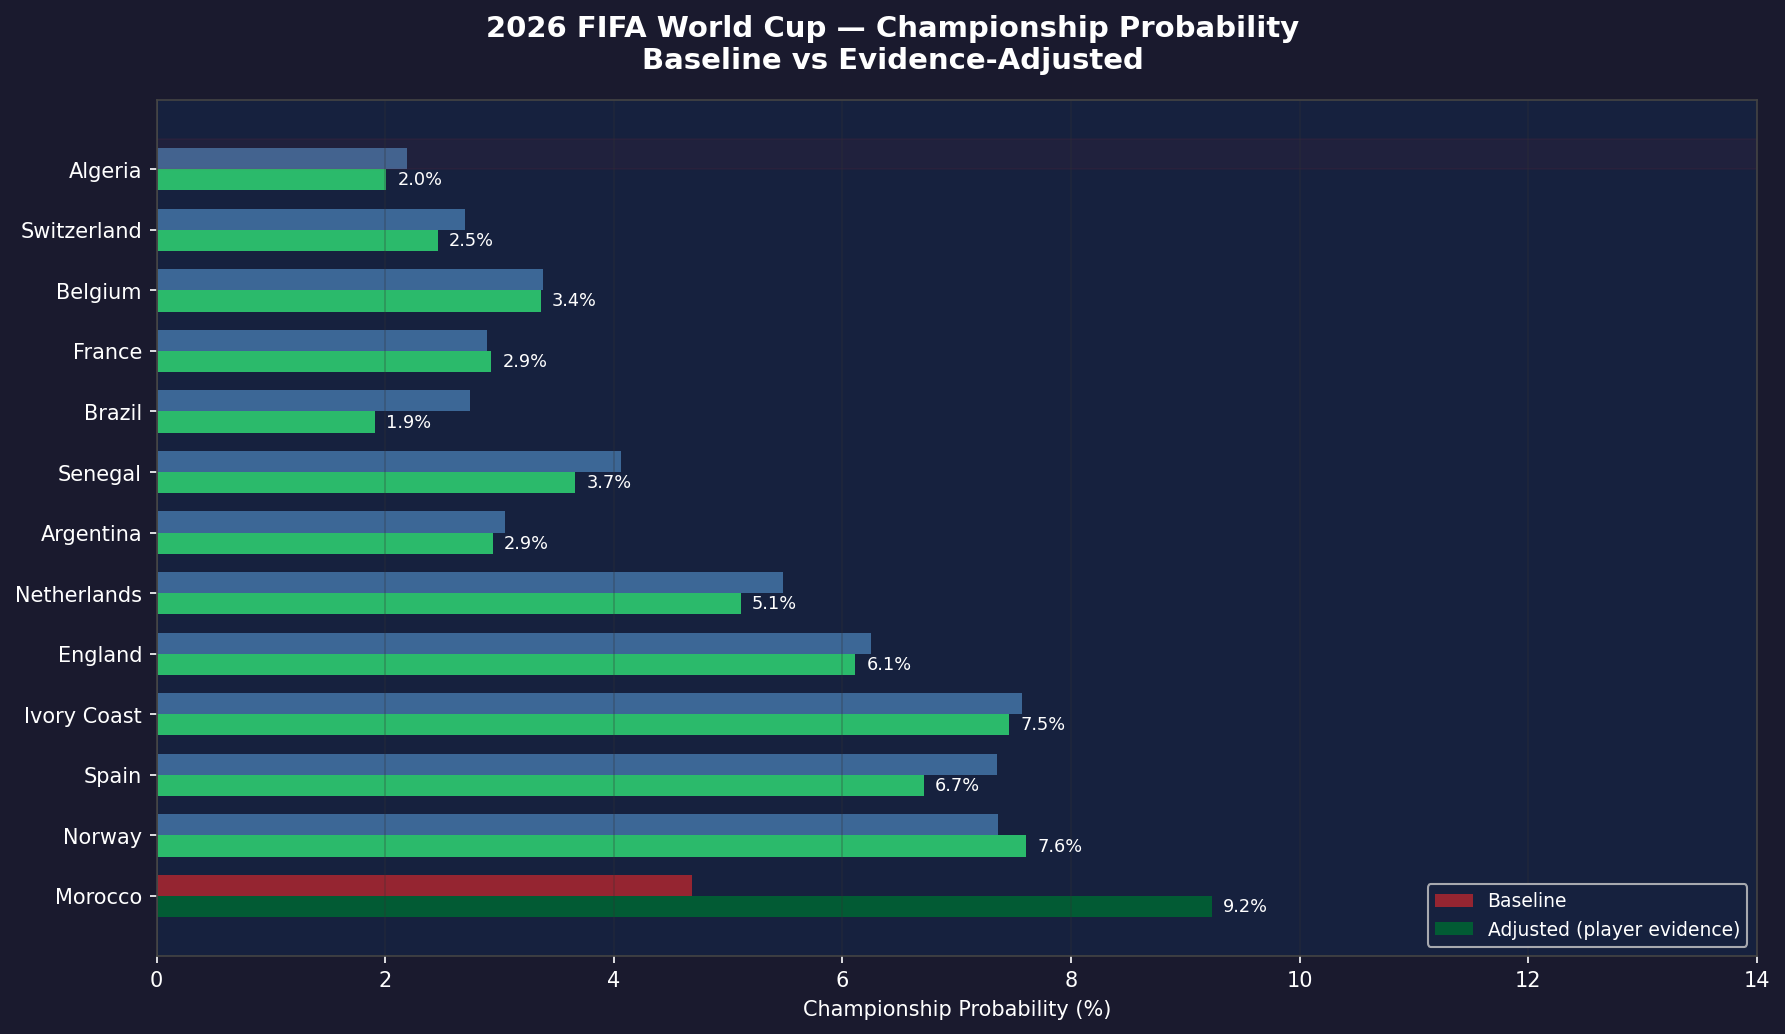
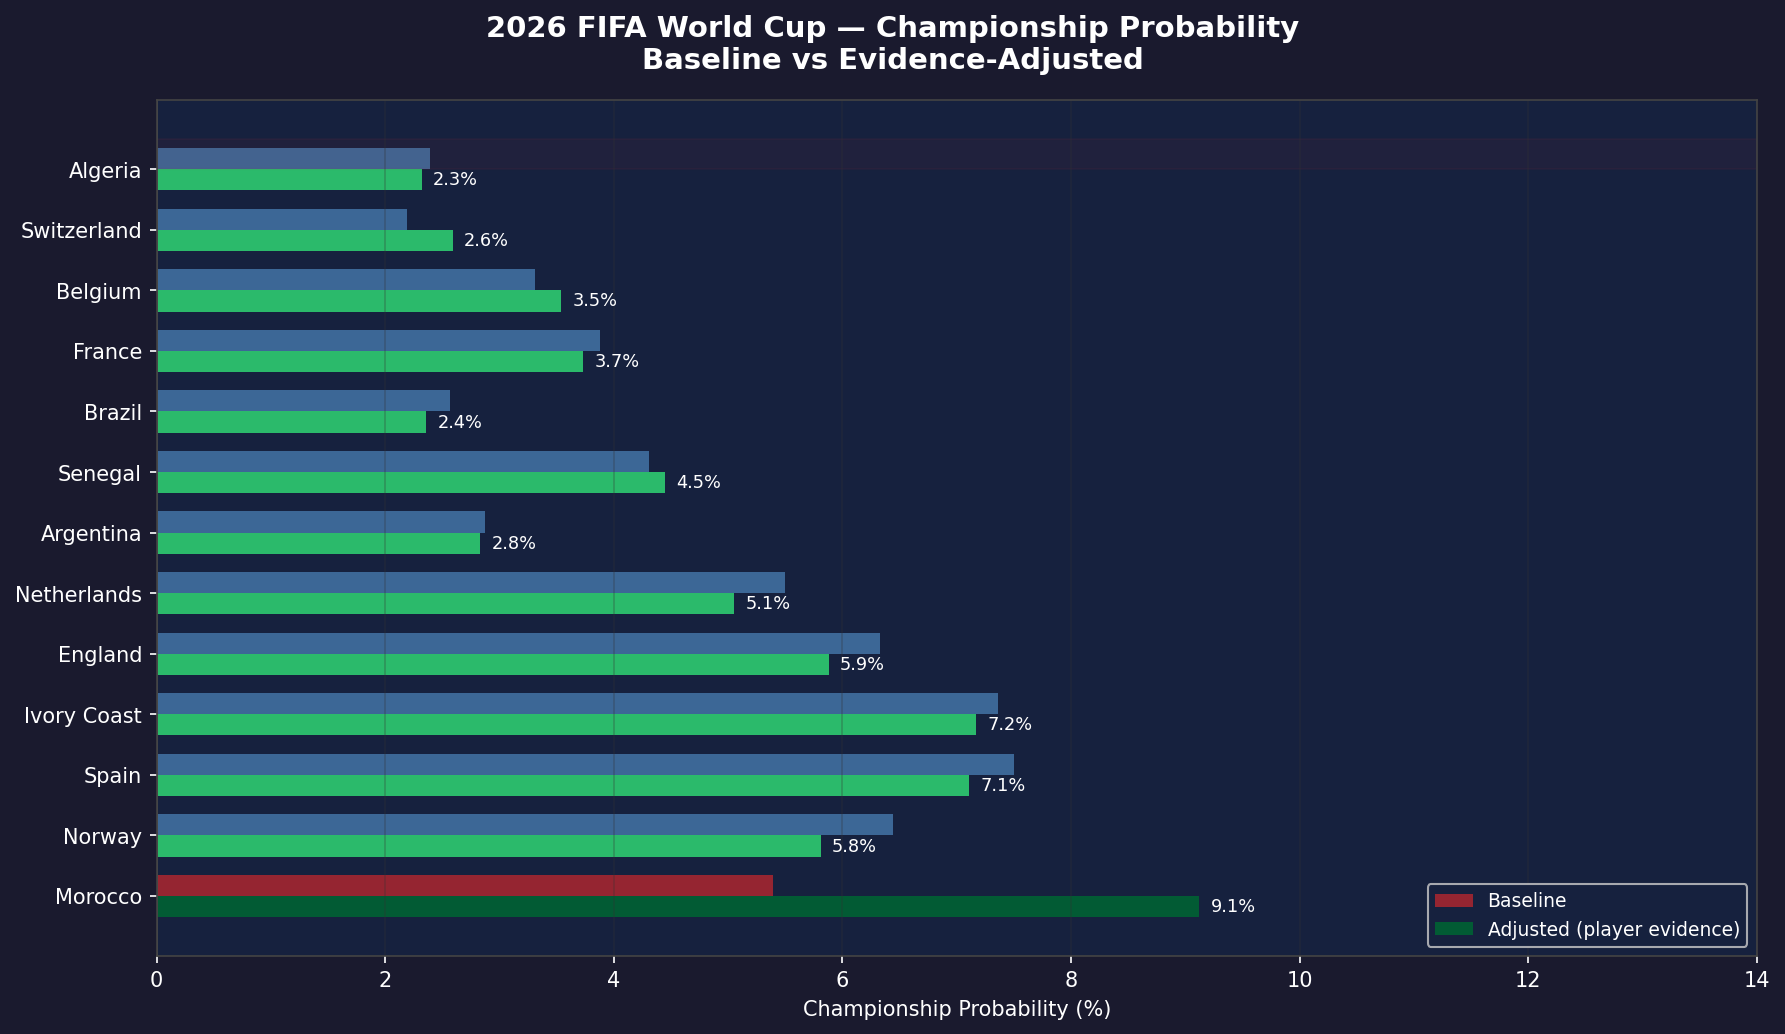
fixed the Norway inflation

diff --git a/src/poisson.py b/src/poisson.py
@@ -1,44 +1,68 @@
 """Poisson model for match outcomes."""
 from __future__ import annotations
 import math
-from typing import Iterable, Dict, Tuple
+from typing import Dict, Iterable, List, Optional, Tuple
 
 
 def poisson_pmf(k: int, lam: float) -> float:
     return (lam ** k) * math.exp(-lam) / math.factorial(k)
 
 
-def compute_team_strengths(matches: Iterable[dict]) -> Tuple[Dict[int, dict], float, float]:
-    home_goals_for, home_goals_against, home_games = {}, {}, {}
-    away_goals_for, away_goals_against, away_games = {}, {}, {}
-    total_home_goals = total_away_goals = total_matches = 0
-    for m in matches:
+def compute_team_strengths(
+    matches: Iterable[dict],
+    weights: Optional[List[Tuple[float, float]]] = None,
+) -> Tuple[Dict[int, dict], float, float]:
+    """Compute attack/defense indices for each team.
+
+    weights: per-match list of (w_home, w_away).  w_home down-weights the home
+    team's stats when the away opponent is weak; w_away does the same for the
+    away team.  When None every match is weighted 1.0.  Weighted league averages
+    are used so attack/defense indices stay correctly normalised.
+    """
+    home_goals_for: Dict[int, float] = {}
+    home_goals_against: Dict[int, float] = {}
+    home_games: Dict[int, float] = {}
+    away_goals_for: Dict[int, float] = {}
+    away_goals_against: Dict[int, float] = {}
+    away_games: Dict[int, float] = {}
+    total_home_goals = total_home_weight = 0.0
+    total_away_goals = total_away_weight = 0.0
+
+    for i, m in enumerate(matches):
         if m["home_score"] is None or m["away_score"] is None:
             continue
+        w_h, w_a = weights[i] if weights is not None else (1.0, 1.0)
         h, a = int(m["home_team_id"]), int(m["away_team_id"])
         hs, as_ = int(m["home_score"]), int(m["away_score"])
-        home_goals_for[h] = home_goals_for.get(h, 0) + hs
-        home_goals_against[h] = home_goals_against.get(h, 0) + as_
-        home_games[h] = home_games.get(h, 0) + 1
-        away_goals_for[a] = away_goals_for.get(a, 0) + as_
-        away_goals_against[a] = away_goals_against.get(a, 0) + hs
-        away_games[a] = away_games.get(a, 0) + 1
-        total_home_goals += hs
-        total_away_goals += as_
-        total_matches += 1
-    if total_matches == 0:
+
+        home_goals_for[h]     = home_goals_for.get(h, 0.0)     + hs  * w_h
+        home_goals_against[h] = home_goals_against.get(h, 0.0) + as_ * w_h
+        home_games[h]         = home_games.get(h, 0.0)         + w_h
+
+        away_goals_for[a]     = away_goals_for.get(a, 0.0)     + as_ * w_a
+        away_goals_against[a] = away_goals_against.get(a, 0.0) + hs  * w_a
+        away_games[a]         = away_games.get(a, 0.0)         + w_a
+
+        total_home_goals  += hs  * w_h
+        total_home_weight += w_h
+        total_away_goals  += as_ * w_a
+        total_away_weight += w_a
+
+    if total_home_weight == 0 or total_away_weight == 0:
         raise ValueError("No completed matches found.")
-    league_home_avg = total_home_goals / total_matches
-    league_away_avg = total_away_goals / total_matches
+
+    league_home_avg = total_home_goals / total_home_weight
+    league_away_avg = total_away_goals / total_away_weight
+
     all_team_ids = set(home_games) | set(away_games)
     strengths = {}
     for tid in all_team_ids:
-        hg, ag = home_games.get(tid, 0), away_games.get(tid, 0)
+        hg, ag = home_games.get(tid, 0.0), away_games.get(tid, 0.0)
         strengths[tid] = {
-            "home_attack": (home_goals_for.get(tid, 0) / hg) / league_home_avg if hg > 0 else 1.0,
-            "home_defense": (home_goals_against.get(tid, 0) / hg) / league_away_avg if hg > 0 else 1.0,
-            "away_attack": (away_goals_for.get(tid, 0) / ag) / league_away_avg if ag > 0 else 1.0,
-            "away_defense": (away_goals_against.get(tid, 0) / ag) / league_home_avg if ag > 0 else 1.0,
+            "home_attack":   (home_goals_for.get(tid, 0.0)     / hg) / league_home_avg if hg > 0 else 1.0,
+            "home_defense":  (home_goals_against.get(tid, 0.0) / hg) / league_away_avg if hg > 0 else 1.0,
+            "away_attack":   (away_goals_for.get(tid, 0.0)     / ag) / league_away_avg if ag > 0 else 1.0,
+            "away_defense":  (away_goals_against.get(tid, 0.0) / ag) / league_home_avg if ag > 0 else 1.0,
         }
     return strengths, league_home_avg, league_away_avg
 

diff --git a/src/wc_simulator.py b/src/wc_simulator.py
@@ -10,7 +10,7 @@ Usage:
 from __future__ import annotations
 
 import re
-from collections import defaultdict
+from collections import Counter, defaultdict
 from typing import Dict, List, Optional, Tuple
 
 import numpy as np
@@ -65,6 +65,11 @@ QF_SLOTS  = [(0,1),(4,5),(2,3),(6,7)]
 # SF pairs by QF index
 SF_SLOTS  = [(0,1),(2,3)]
 
+
+# Minimum international matches required for full Poisson credibility.
+# Teams below this threshold have their attack/defense indices blended toward
+# the league mean (1.0) proportionally: credibility = min(n, threshold) / threshold.
+POISSON_CREDIBILITY_THRESHOLD = 12
 
 # International competition IDs — used to filter Poisson training data
 INTERNATIONAL_COMP_IDS = {
@@ -158,6 +163,24 @@ def _load_international_matches(alias_map: Dict[int, int]) -> List[dict]:
         "away_team_id": alias_map.get(r[1], r[1]),
         "home_score": r[2], "away_score": r[3],
     } for r in rows]
+
+
+# Weight parameters for opponent-strength weighting of Poisson data.
+# Linear around 1500; floor prevents minnow matches from counting as zero.
+_ELO_WEIGHT_CENTER = 1500.0
+_ELO_WEIGHT_SCALE  = 400.0
+_ELO_WEIGHT_MIN    = 0.2
+_ELO_WEIGHT_MAX    = 2.0
+
+
+def _opponent_weight(elo: float) -> float:
+    """Return a Poisson match weight based on opponent Elo.
+
+    1500-Elo opponent → 1.0.  Each 400 points above/below shifts by ±1.0,
+    clamped to [0.2, 2.0] so even weak-opposition results count a little.
+    """
+    w = (elo - _ELO_WEIGHT_CENTER) / _ELO_WEIGHT_SCALE + 1.0
+    return max(_ELO_WEIGHT_MIN, min(_ELO_WEIGHT_MAX, w))
 
 
 def _neutral_lambdas(a_id: Optional[int], b_id: Optional[int],
@@ -341,10 +364,45 @@ def run_wc_simulations(
     print("Computing Elo ratings (all matches)...")
     elo = fit_ratings(all_matches)
 
-    print("Computing Poisson strengths (international matches only)...")
-    strengths, home_avg, away_avg = compute_team_strengths(intl_matches)
+    print("Computing Poisson strengths (international matches, opponent-weighted)...")
+    poisson_weights = [
+        (
+            _opponent_weight(elo.get(m["away_team_id"], DEFAULT_RATING)),
+            _opponent_weight(elo.get(m["home_team_id"], DEFAULT_RATING)),
+        )
+        for m in intl_matches
+    ]
+    effective_matches = sum(w_h + w_a for w_h, w_a in poisson_weights) / 2
+    print(f"  {len(intl_matches):,} matches → {effective_matches:.0f} effective after opponent-weighting")
+    strengths, home_avg, away_avg = compute_team_strengths(intl_matches, weights=poisson_weights)
     avg_goals = (home_avg + away_avg) / 2
-    print(f"  avg goals/game: {avg_goals:.2f}")
+    print(f"  avg goals/game (weighted): {avg_goals:.2f}")
+
+    # Credibility-blend Poisson strengths toward mean for data-sparse teams.
+    # Use raw match counts (not weighted) — the threshold is "matches in the DB".
+    intl_game_counts: Counter = Counter()
+    for m in intl_matches:
+        intl_game_counts[m["home_team_id"]] += 1
+        intl_game_counts[m["away_team_id"]] += 1
+
+    regressed = []
+    for tid, s in strengths.items():
+        n = intl_game_counts.get(tid, 0)
+        cred = min(n, POISSON_CREDIBILITY_THRESHOLD) / POISSON_CREDIBILITY_THRESHOLD
+        if cred < 1.0:
+            strengths[tid] = {k: cred * v + (1.0 - cred) for k, v in s.items()}
+            regressed.append((n, cred, tid))
+
+    if regressed:
+        id_to_name = {v: k for k, v in name_id.items()}
+        wc_teams = {t for g in WC_2026_GROUPS.values() for t in g}
+        wc_regressed = [(n, cred, tid) for n, cred, tid in regressed
+                        if id_to_name.get(tid, "") in wc_teams]
+        wc_regressed.sort()
+        print(f"  Credibility regression: {len(regressed)} total teams blended "
+              f"({len(wc_regressed)} are WC 2026 participants):")
+        for n, cred, tid in wc_regressed:
+            print(f"    {id_to_name.get(tid, tid):<25}  {n:>2} matches  cred={cred:.2f}")
 
     # Apply per-team overrides
     if overrides:

diff --git a/scripts/morocco_analysis.py b/scripts/morocco_analysis.py
@@ -344,7 +344,7 @@ print("""
 SIMULATION PARAMETERS
 ─────────────────────
 Model:      Monte Carlo, 10,000 iterations
-Group stage: Dixon-Coles Poisson (international matches only, avg 1.37 G/game)
+Group stage: Poisson (international matches, opponent-Elo-weighted, avg 1.29 G/game)
 Knockout:    Elo win probabilities (all 4,014 matches ≥2010, neutral venue)
 Overrides applied to Morocco:
   • Elo boost:      +40 points